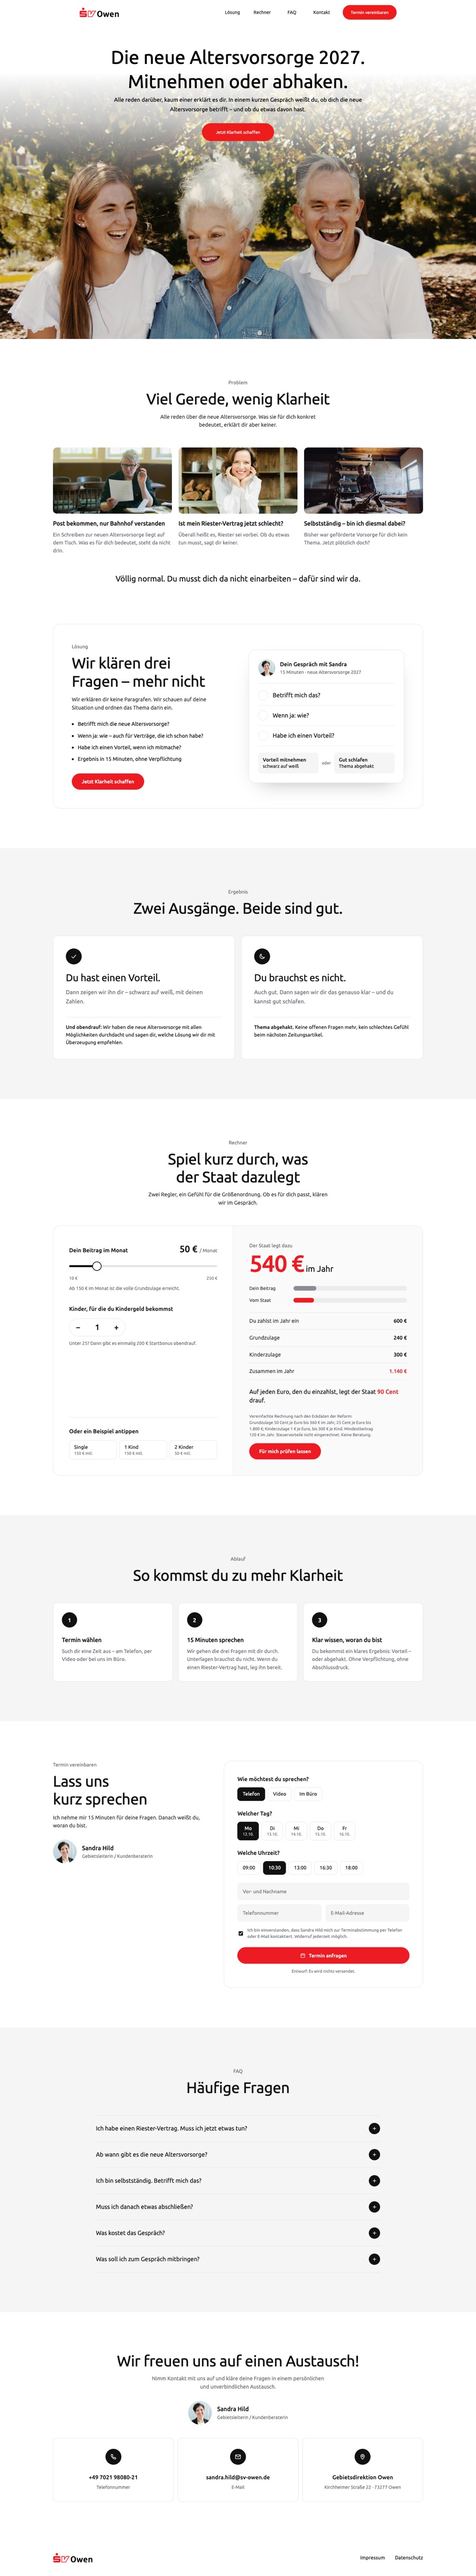
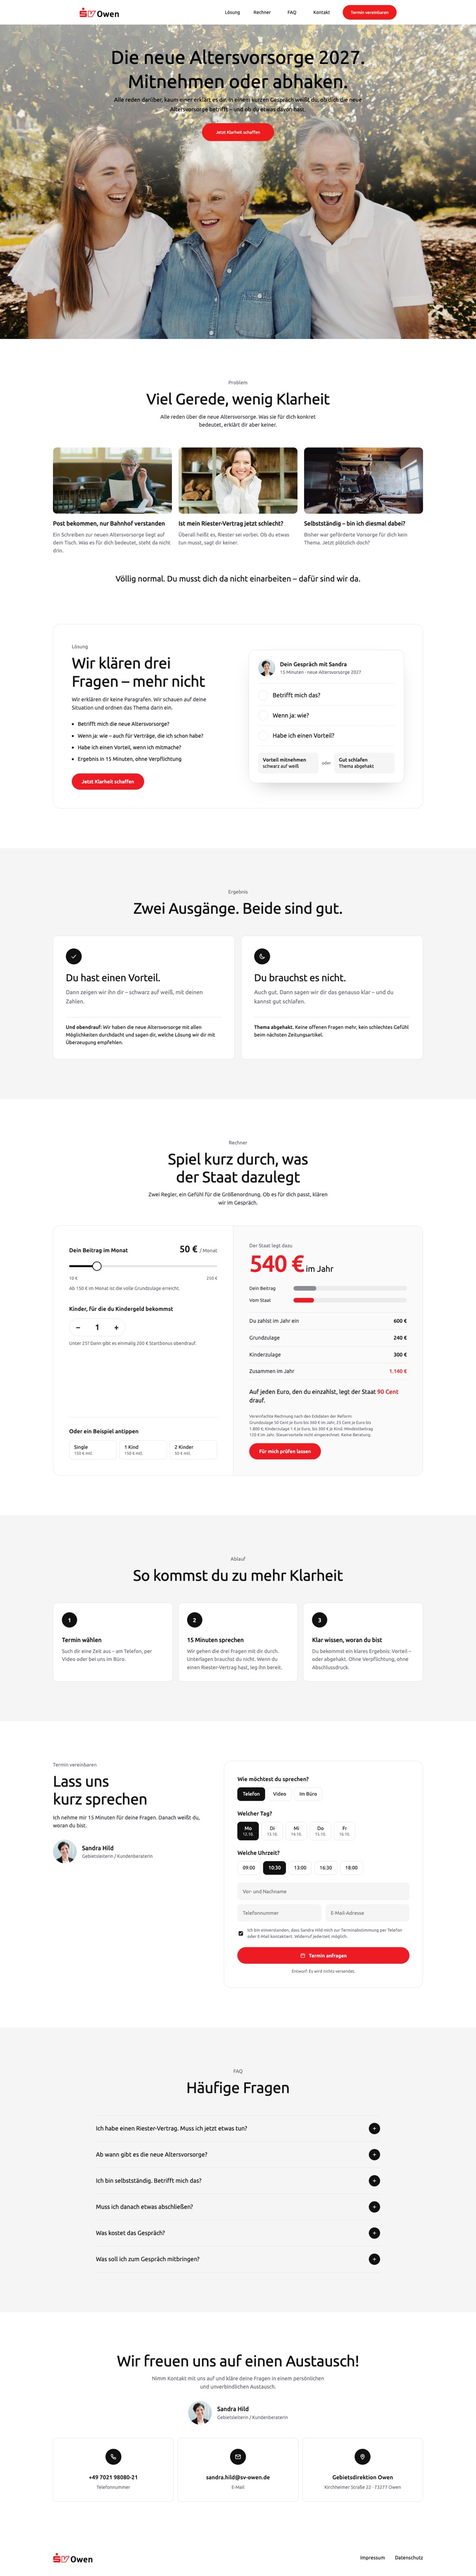
AVRG Landingpage 1: Aufmacher wie im Original – Foto direkt unter der weißen Kopfzeile über die volle Breite, kein weißer Verlauf ins Bild

Changed region(s): [[0.0, 0.0, 1.0, 0.1562]]

diff --git a/site/projekte/avrg.html b/site/projekte/avrg.html
@@ -689,15 +689,15 @@ if(document.readyState==='loading')document.addEventListener('DOMContentLoaded',
       <p class="e2-kicker">Landingpage &middot; drei Varianten</p>
       <div class="ak-varianten">
         <a class="ak-karte lpv" href="/projekte/avrg-landingpage-1.html">
-          <span class="lpv-fenster"><span class="lpv-leiste"><i></i><i></i><i></i><span>agentur-beispiel.de/neue-altersvorsorge</span></span><span class="lpv-seite"><img src="/assets/projekte/avrg/lp-vorschau-voll-1.jpg?v=4" alt="Vorschau der ganzen Landingpage, Variante 1" loading="lazy"></span><span class="lpv-hinweis">Zum Durchscrollen darüberfahren</span></span>
+          <span class="lpv-fenster"><span class="lpv-leiste"><i></i><i></i><i></i><span>agentur-beispiel.de/neue-altersvorsorge</span></span><span class="lpv-seite"><img src="/assets/projekte/avrg/lp-vorschau-voll-1.jpg?v=5" alt="Vorschau der ganzen Landingpage, Variante 1" loading="lazy"></span><span class="lpv-hinweis">Zum Durchscrollen darüberfahren</span></span>
           <span class="ak-karte-text"><small>Landingpage &middot; Variante 1</small><b>Nah an der Vorlage</b><p>Kopf und Aufmacher exakt wie die bestehenden Landingpages von SV Owen: Foto über die volle Breite, Text mittig, roter Knopf. Darunter Problem, Lösung, Rechner, Termin.</p><span class="ak-pfeil">Variante 1 öffnen &rarr;</span></span>
         </a>
         <a class="ak-karte lpv" href="/projekte/avrg-landingpage-2.html">
-          <span class="lpv-fenster"><span class="lpv-leiste"><i></i><i></i><i></i><span>agentur-beispiel.de/neue-altersvorsorge-2</span></span><span class="lpv-seite"><img src="/assets/projekte/avrg/lp-vorschau-voll-2.jpg?v=4" alt="Vorschau der ganzen Landingpage, Variante 2" loading="lazy"></span><span class="lpv-hinweis">Zum Durchscrollen darüberfahren</span></span>
+          <span class="lpv-fenster"><span class="lpv-leiste"><i></i><i></i><i></i><span>agentur-beispiel.de/neue-altersvorsorge-2</span></span><span class="lpv-seite"><img src="/assets/projekte/avrg/lp-vorschau-voll-2.jpg?v=5" alt="Vorschau der ganzen Landingpage, Variante 2" loading="lazy"></span><span class="lpv-hinweis">Zum Durchscrollen darüberfahren</span></span>
           <span class="ak-karte-text"><small>Landingpage &middot; Variante 2</small><b>Was trifft auf dich zu?</b><p>Gleiche Farben und Elemente, eigene Story: Der Besucher wählt oben seine Lebenslage, die Seite antwortet mit seiner Frage. Dann das Gespräch als Zeitleiste.</p><span class="ak-pfeil">Variante 2 öffnen &rarr;</span></span>
         </a>
         <a class="ak-karte lpv" href="/projekte/avrg-landingpage-3.html">
-          <span class="lpv-fenster"><span class="lpv-leiste"><i></i><i></i><i></i><span>agentur-beispiel.de/neue-altersvorsorge-3</span></span><span class="lpv-seite"><img src="/assets/projekte/avrg/lp-vorschau-voll-3.jpg?v=4" alt="Vorschau der ganzen Landingpage, Variante 3" loading="lazy"></span><span class="lpv-hinweis">Zum Durchscrollen darüberfahren</span></span>
+          <span class="lpv-fenster"><span class="lpv-leiste"><i></i><i></i><i></i><span>agentur-beispiel.de/neue-altersvorsorge-3</span></span><span class="lpv-seite"><img src="/assets/projekte/avrg/lp-vorschau-voll-3.jpg?v=5" alt="Vorschau der ganzen Landingpage, Variante 3" loading="lazy"></span><span class="lpv-hinweis">Zum Durchscrollen darüberfahren</span></span>
           <span class="ak-karte-text"><small>Landingpage &middot; Variante 3</small><b>Das Klarheits-Ticket</b><p>Maßstab Volksfest-Seite: ein rotes Ticket „15 Minuten Klarheit“ als Bildidee, fünf Menschen, fünf Fragen, kräftige Flächen.</p><span class="ak-pfeil">Variante 3 öffnen &rarr;</span></span>
         </a>
       </div>

diff --git a/site/assets/projekte/avrg/avrg-v1.css b/site/assets/projekte/avrg/avrg-v1.css
@@ -16,24 +16,17 @@
 .lp1-burger{display:none;appearance:none;border:0;background:none;padding:0;width:24px;height:24px;cursor:pointer;color:#000}
 .lp1-burger svg{width:24px;height:24px;display:block}
 
-.lp1-held{position:relative;height:max(816px,66vw);overflow:hidden;background:#fff}
-/* Drei Generationen: Gesichter in der unteren Hälfte, Text oben auf aufgehelltem Laub */
-.lp1-held__bild{position:absolute;left:0;right:0;bottom:0;top:auto;width:100%;height:calc(100% - 150px);object-fit:cover;object-position:50% 30%}
-.lp1-held::before{content:"";position:absolute;inset:0 0 auto;height:56%;z-index:1;background:linear-gradient(180deg,#fff 0%,#fff 27%,rgba(255,255,255,.75) 55%,rgba(255,255,255,0) 100%)}
+.lp1-held{position:relative;height:max(816px,66vw);overflow:hidden;background:#8a8a6a}
+/* Wie im Original: Foto beginnt direkt unter der weißen Kopfzeile und füllt den ganzen Aufmacher.
+   Nur ein leichter heller Schleier hinter dem Text, damit die schwarze Schrift auf dem Laub lesbar bleibt. */
+.lp1-held__bild{position:absolute;inset:0;width:100%;height:100%;object-fit:cover;object-position:50% 100%}
+.lp1-held::before{content:"";position:absolute;inset:0 0 auto;height:58%;z-index:1;background:linear-gradient(180deg,rgba(255,255,255,.62) 0%,rgba(255,255,255,.5) 55%,rgba(255,255,255,0) 100%)}
 .lp1-held__text{position:relative;z-index:2;max-width:836px;margin:0 auto;padding:62px 20px 0;text-align:center}
 .lp1-held h1{font:400 56px/73px 'Ubuntu',sans-serif;color:#000;letter-spacing:0;margin:0}
 .lp1-held p{font:400 17px/29px 'Ubuntu',sans-serif;color:#000;max-width:774px;margin:4px auto 0}
 .lp1-held .lp1-knopf{display:inline-flex;align-items:center;justify-content:center;width:218px;height:54px;margin-top:28px;border-radius:999px;background:#ed1c1c;color:#fff;font:400 13px 'Ubuntu',sans-serif;text-decoration:none}
 .lp1-held .lp1-knopf:hover{background:#c8141b}
 
-/* Unter 1240 px: Text oben auf Weiß, darunter das ganze Foto (wie die Handyfassung des Originals) */
-@media (max-width:1239px){
-  .lp1-held{height:auto;background:#fff;display:flex;flex-direction:column}
-  .lp1-held::before{display:none}
-  .lp1-held__text{order:1;padding-bottom:0}
-  .lp1-held__bild{order:2;position:relative;width:100%;height:auto;aspect-ratio:5/4;object-fit:cover;object-position:50% 70%;margin-top:-40px;-webkit-mask:linear-gradient(180deg,transparent 0,#000 22%);mask:linear-gradient(180deg,transparent 0,#000 22%)}
-  .lp1-held__text{position:relative;z-index:2}
-}
 @media (max-width:1000px){
   .lp1-held h1{font-size:44px;line-height:58px}
 }
@@ -46,7 +39,7 @@
   .lp1-kopf.ist-offen .lp1-nav{display:flex}
   .lp1-nav a{width:auto;text-align:left;line-height:44px;font-size:16px}
   .lp1-nav .lp1-cta{margin:10px 0 0;text-align:center;font-size:14px}
-  .lp1-held__bild{margin-top:-20px}
+  .lp1-held{height:700px}
   .lp1-held__text{padding:41px 42px 0}
   .lp1-held h1{font-size:24px;line-height:29px}
   .lp1-held p{font-size:14px;line-height:19.5px;font-weight:300;margin-top:11px}

diff --git a/site/projekte/avrg-medienkonzept.html b/site/projekte/avrg-medienkonzept.html
@@ -739,10 +739,10 @@ if(document.readyState==='loading')document.addEventListener('DOMContentLoaded',
       <p class="e2-lead">Drei Varianten zur Auswahl. Jeder Baustein beantwortet eine Frage, die der Besucher in diesem Moment hat – und führt zum Termin.</p>
       <div class="ak-lp" style="margin-top:clamp(32px,4vw,48px)">
         <div>
-          <div class="mk-varianten"><button type="button" class="mk-variante" data-v="1" aria-pressed="true"><img src="/assets/projekte/avrg/lp-vorschau-1.jpg?v=4" alt="">Variante 1 · Vorlage</button><button type="button" class="mk-variante" data-v="2" aria-pressed="false"><img src="/assets/projekte/avrg/lp-vorschau-2.jpg?v=4" alt="">Variante 2 · Lebenslage</button><button type="button" class="mk-variante" data-v="3" aria-pressed="false"><img src="/assets/projekte/avrg/lp-vorschau-3.jpg?v=4" alt="">Variante 3 · Ticket</button></div>
+          <div class="mk-varianten"><button type="button" class="mk-variante" data-v="1" aria-pressed="true"><img src="/assets/projekte/avrg/lp-vorschau-1.jpg?v=5" alt="">Variante 1 · Vorlage</button><button type="button" class="mk-variante" data-v="2" aria-pressed="false"><img src="/assets/projekte/avrg/lp-vorschau-2.jpg?v=5" alt="">Variante 2 · Lebenslage</button><button type="button" class="mk-variante" data-v="3" aria-pressed="false"><img src="/assets/projekte/avrg/lp-vorschau-3.jpg?v=5" alt="">Variante 3 · Ticket</button></div>
           <div class="ak-browser">
             <div class="ak-browser-bar"><i></i><i></i><i></i><span id="mk-lp-url">agentur-beispiel.de/neue-altersvorsorge</span></div>
-            <div class="ak-browser-seite" tabindex="0" aria-label="Vorschau der Landingpage, scrollbar"><img id="mk-lp-bild" src="/assets/projekte/avrg/lp-vorschau-voll-1.jpg?v=4" alt="Vorschau der gesamten Landingpage"></div>
+            <div class="ak-browser-seite" tabindex="0" aria-label="Vorschau der Landingpage, scrollbar"><img id="mk-lp-bild" src="/assets/projekte/avrg/lp-vorschau-voll-1.jpg?v=5" alt="Vorschau der gesamten Landingpage"></div>
           </div>
           <p class="ak-browser-hinweis">Vorschau zum Durchscrollen &middot; die echten Seiten sind voll klickbar</p>
         </div>

diff --git a/site/assets/projekte/avrg/mk.js b/site/assets/projekte/avrg/mk.js
@@ -36,7 +36,7 @@
     b.addEventListener('click', function () {
       var v = b.dataset.v;
       $$('.mk-variante').forEach(function (x) { x.setAttribute('aria-pressed', x === b ? 'true' : 'false'); });
-      $('#mk-lp-bild').src = '/assets/projekte/avrg/lp-vorschau-voll-' + v + '.jpg?v=4';
+      $('#mk-lp-bild').src = '/assets/projekte/avrg/lp-vorschau-voll-' + v + '.jpg?v=5';
       $('.ak-browser-seite').scrollTop = 0;
       $('#mk-lp-url').textContent = 'agentur-beispiel.de/neue-altersvorsorge' + (v === '1' ? '' : '-' + v);
       $$('.mk-bausteine').forEach(function (l) { l.hidden = l.dataset.v !== v; });

diff --git a/site/projekte/avrg-landingpage-1.html b/site/projekte/avrg-landingpage-1.html
@@ -7,7 +7,7 @@
 <meta name="description" content="Die neue geförderte Altersvorsorge ab 2027: In 15 Minuten weißt du, ob sie dich betrifft und ob du einen Vorteil hast.">
 <meta name="robots" content="noindex, nofollow">
 <link rel="stylesheet" href="/assets/projekte/avrg/avrg.css?v=2">
-<link rel="stylesheet" href="/assets/projekte/avrg/avrg-v1.css?v=4">
+<link rel="stylesheet" href="/assets/projekte/avrg/avrg-v1.css?v=5">
 </head>
 <body>
 <svg width="0" height="0" style="position:absolute" aria-hidden="true"><defs>
